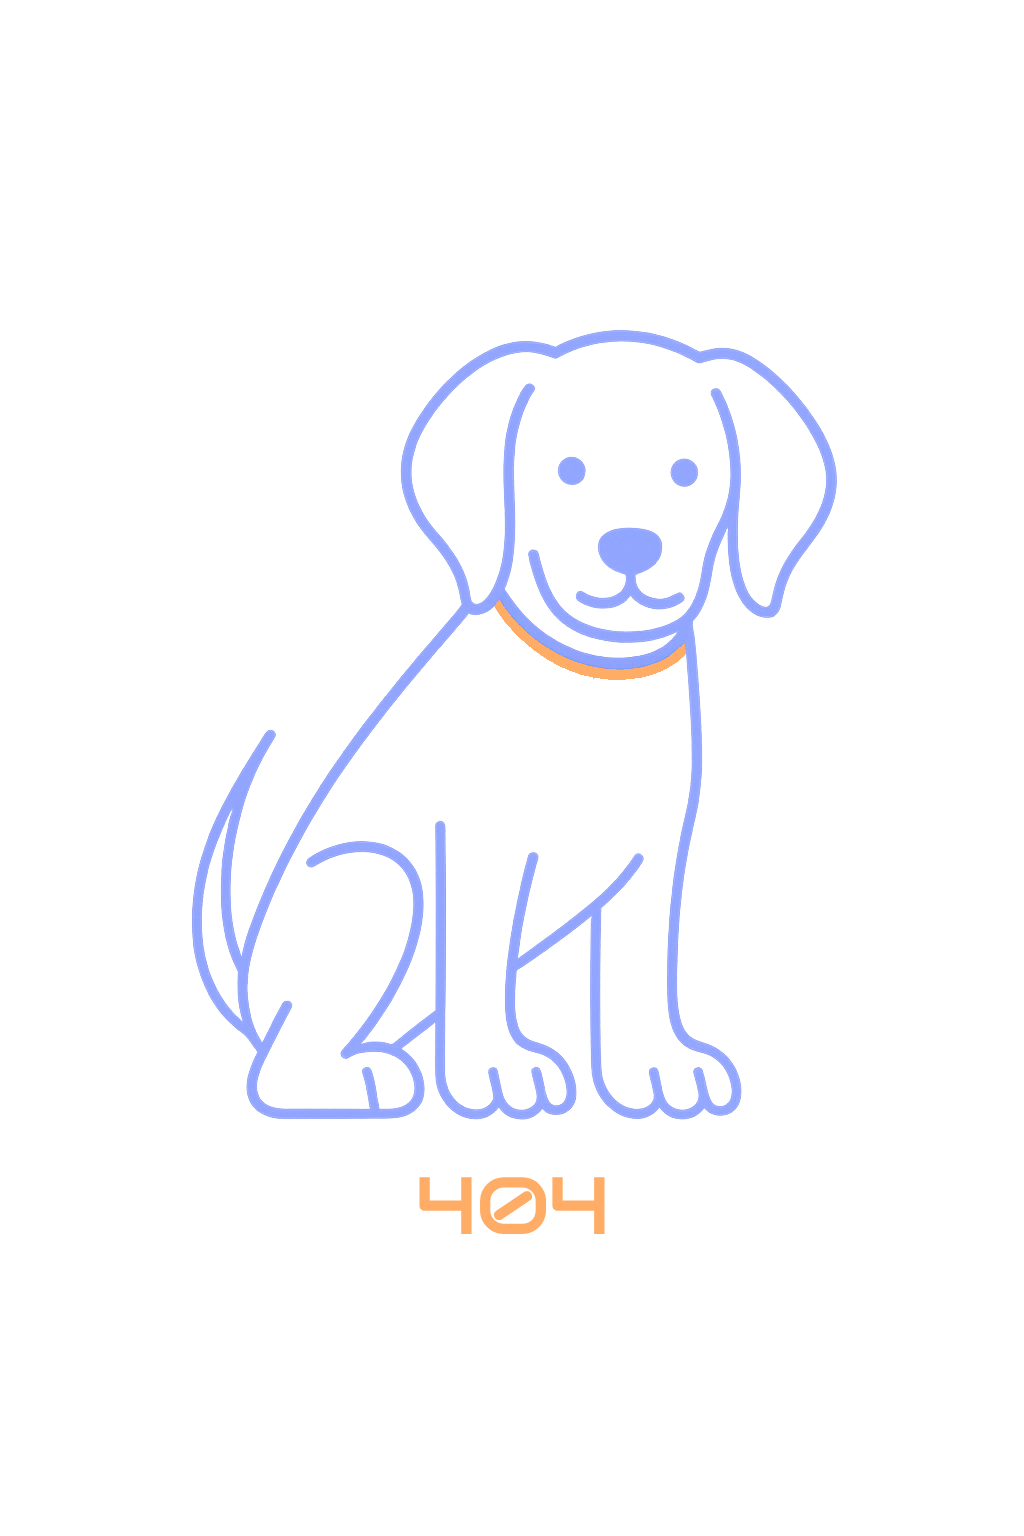
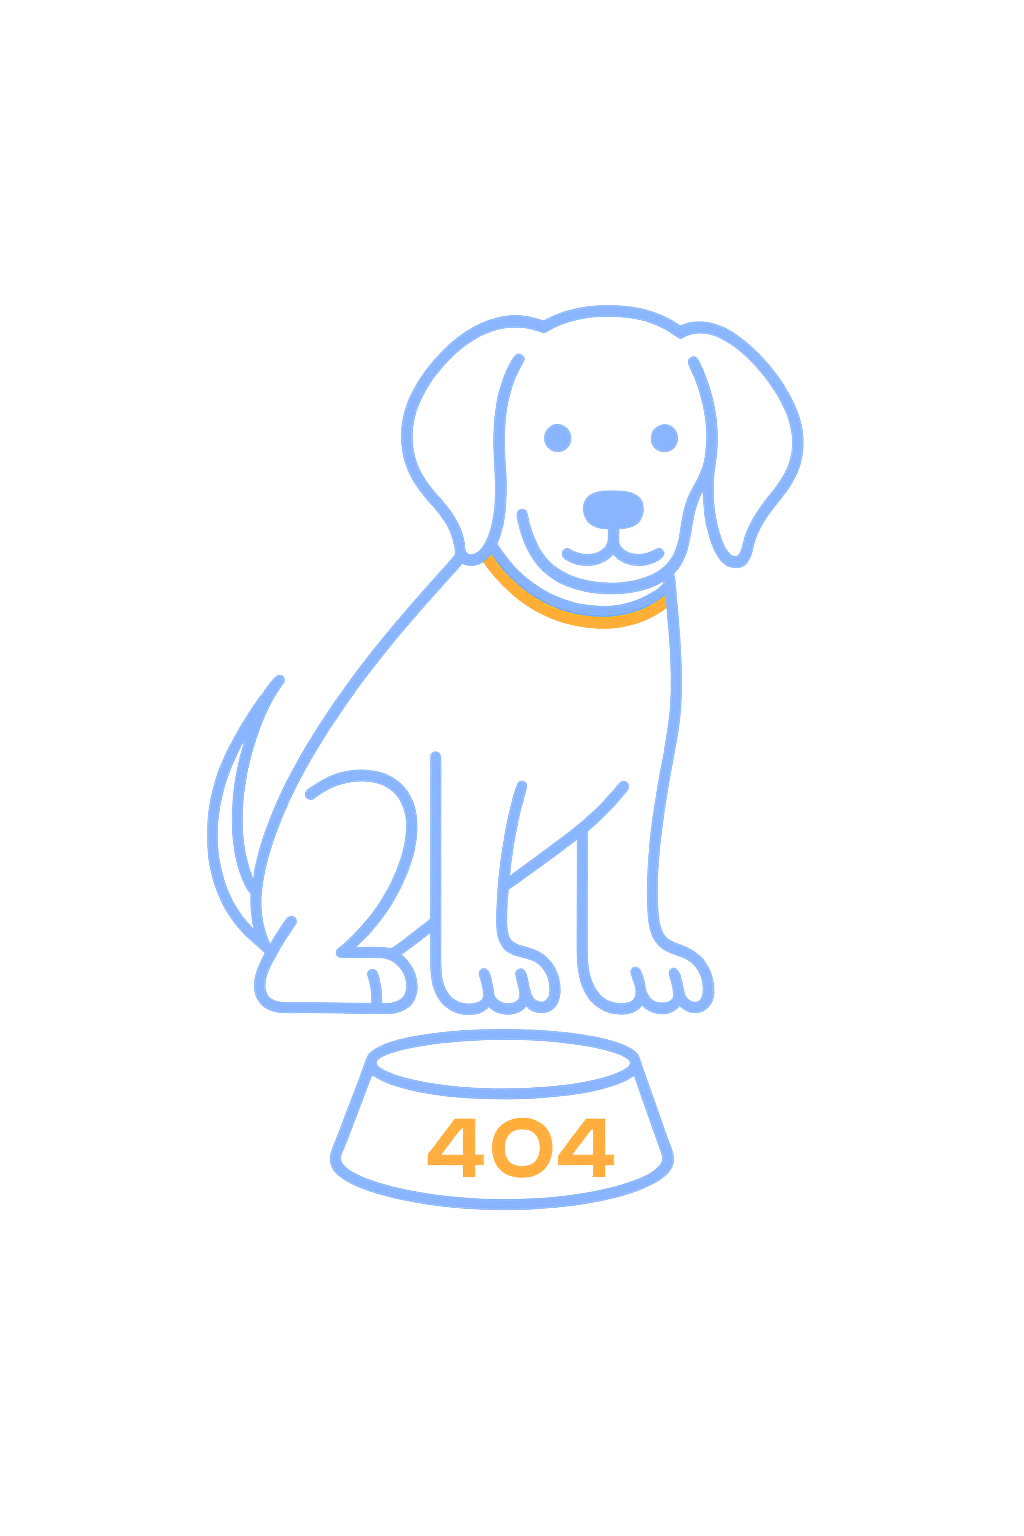
ui: change 404 image

Changed region(s): [[0.1875, 0.1875, 0.8125, 0.8125]]

diff --git a/app/posts/PostCard.jsx b/app/posts/PostCard.jsx
@@ -11,7 +11,7 @@ export default function PostCard({post}) {
                     <img
                         src={cover}
                         alt={title}
-                        className="w-full h-[222px] object-cover block p-0 m-0 transition-transform group-hover:scale-[1.1]"
+                        className="w-full h-[150px] sm:h-[222px] object-cover block p-0 m-0 transition-transform group-hover:scale-[1.1]"
                     />
                     {date && (
                         <div className="absolute bottom-2 right-2 bg-white/80 text-xs text-black px-2 py-1 rounded">
